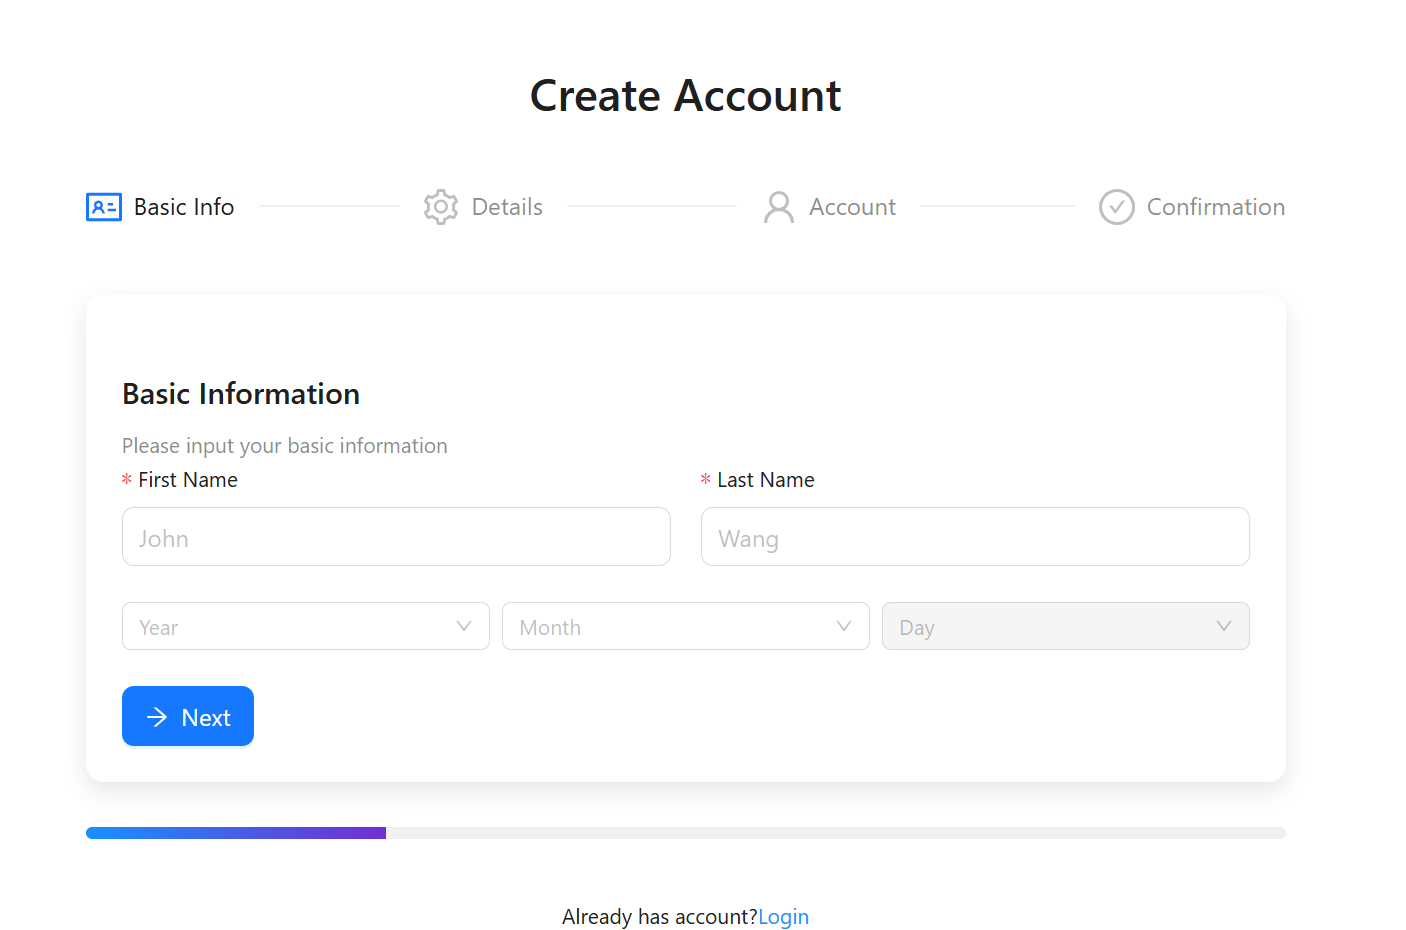
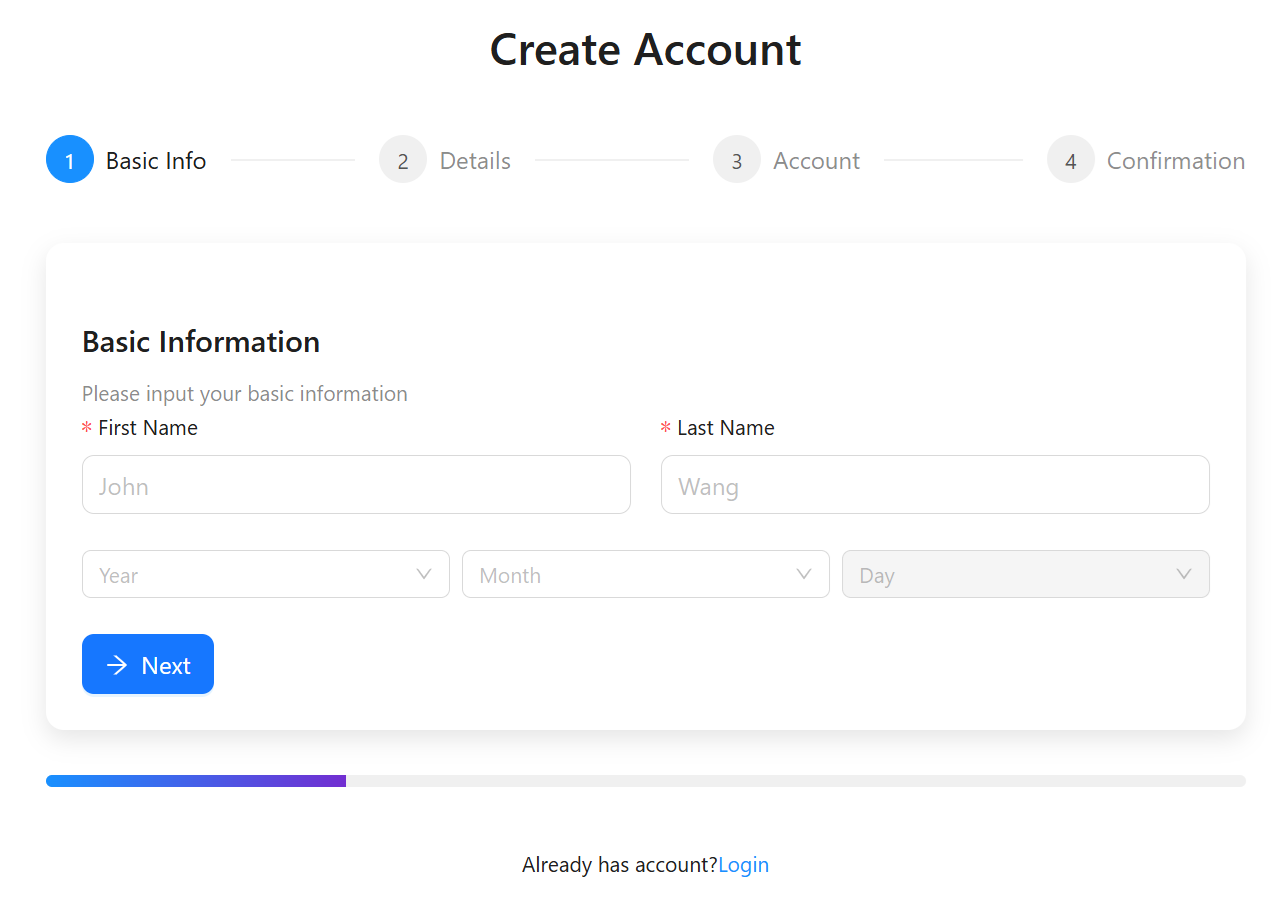
fix steps issue

diff --git a/src/registration/steps/index.tsx b/src/registration/steps/index.tsx
@@ -2,13 +2,6 @@
 import React from 'react';
 import { Steps } from 'antd';
 import { RegistrationStep } from '../interfaces';
-import { 
-  UserOutlined, 
-  IdcardOutlined, 
-  SettingOutlined, 
-  CheckCircleOutlined
-} from '@ant-design/icons';
-import { ALL_STEPS } from '../consts';
 
 const { Step } = Steps;
 
@@ -26,16 +19,12 @@ const RegistrationSteps: React.FC<{
   return (
     <Steps 
       current={stepIndex[currentStep]} 
-      onChange={(index) => {
-        const steps: RegistrationStep[] = ALL_STEPS;
-        onStepChange(steps[index]);
-      }}
       className="custom-steps"
     >
-      <Step title="Basic Info" icon={<IdcardOutlined />} />
-      <Step title="Details" icon={<SettingOutlined />} />
-      <Step title="Account" icon={<UserOutlined />} />
-      <Step title="Confirmation" icon={<CheckCircleOutlined />} />
+      <Step title="Basic Info"  />
+      <Step title="Details"  />
+      <Step title="Account"  />
+      <Step title="Confirmation" />
     </Steps>
   );
 };

diff --git a/src/registration/steps/detail.tsx b/src/registration/steps/detail.tsx
@@ -43,7 +43,7 @@ const DetailStep: React.FC<StepProps> = ({ onNext, onPrev, setFormData, formData
           detail: {
             country: values.country,
             gender: values.gender,
-            avatar: values.avatar
+            avatar: values.avatar?.length?values.avatar[0].name:''
           }
         }));
         onNext();
